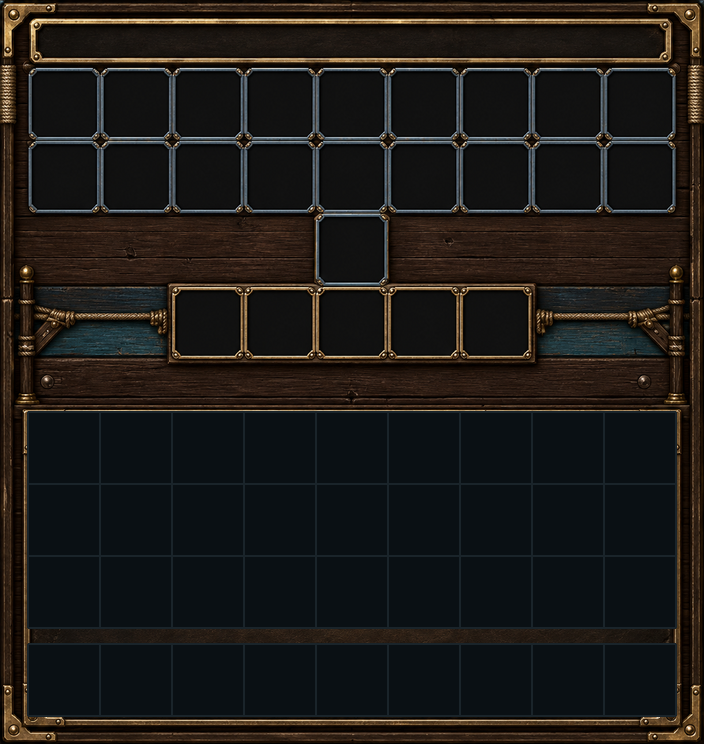
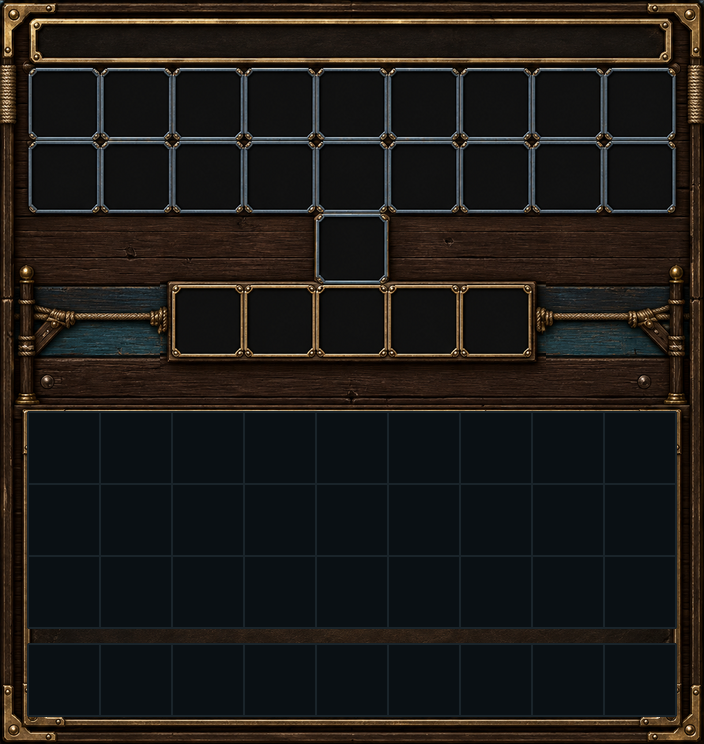
NPC 대화 창 선택지 판 2px 올림
액자 구멍이 63px 인데 아이콘이 64px 라 여유가 없다. 2px(=0.5 GUI px) 낮은 것만으로도
아이콘 위가 테두리에 걸치고 아래에 틈이 생긴다 — 유저가 확대해서 잡아냈다.

겹쳐보기 그림으로는 안 보였다. 자동 계측을 두 번 시도했지만(구멍 밝기 / 액자 밝기)
입체 그림자와 배경 장식에 다 속아서 못 믿을 숫자가 나왔다. 결국 문제 칸의 밝기
프로파일을 직접 읽어 재는 게 정확했다 — 자동화는 접었다.

기록 칸(±0.5px)·가로(±1px)는 원래 맞아 있었다. 옮긴 건 선택지 놋쇠 판 하나뿐.

Changed region(s): [[0.2188, 0.371, 0.7812, 0.4946]]

diff --git a/gui-forge/prep_delivery.py b/gui-forge/prep_delivery.py
@@ -52,6 +52,12 @@ PLATES = {
 # 책등 열에 액자를 찍을 화면: (떠올 칸 col·row, 찍을 col, 찍을 row 목록)
 SPINE_FILL = {"dexfish": ((3, 2), 4, [0, 1, 2, 3, 4])}
 
+# 한 덩어리만 살짝 옮길 때: 이름 → [(상자, dx, dy)]
+# ★2px(=0.5 GUI px) 라도 아이콘이 액자 구멍을 꽉 채우면 눈에 띈다. 구멍이 63px 인데
+#   아이콘이 64px 이라 여유가 없어서, 2px 밀리면 위는 테두리에 걸치고 아래에 틈이 생긴다.
+#   (2026-08-10 유저가 확대해서 잡아냄 — 겹쳐보기 그림으로는 안 보였다.)
+SHIFTS = {"npcdialog": [((160, 272, 546, 368), 0, -2)]}   # 선택지 놋쇠 판이 2px 낮았다
+
 
 def remap(im, xb, yb):
     """구간별로 잘라 다시 붙인다. 구간이 없으면 그대로."""
@@ -81,6 +87,16 @@ def main():
             im = im.resize(size, Image.LANCZOS)      # 비율이 맞으면 통짜 리사이즈로 끝난다
         im = remap(im, xb, yb)
 
+        for box, dx, dy in SHIFTS.get(name, []):
+            x0, y0, x1, y1 = box
+            piece = im.crop(box)
+            # 비는 자리는 옮긴 반대쪽 바로 옆에서 같은 두께로 떠다 메운다(뒤가 가로로 연속된 판).
+            if dy:
+                sy = y1 if dy < 0 else y0 + dy
+                im.paste(im.crop((x0, sy, x1, sy + abs(dy))),
+                         (x0, y1 + dy if dy < 0 else y0))
+            im.paste(piece, (x0 + dx, y0 + dy))
+
         fill = SPINE_FILL.get(name)
         if fill:
             (sc, sr), dst_col, rows = fill
@@ -94,7 +110,8 @@ def main():
         im.convert("RGB").save(os.path.join(out, "bg_source.png"))
         print(f"  {name:10} {size[0]}x{size[1]}"
               + (f" · 구간보정 {len(xb)}x{len(yb)}" if xb or yb else " · 원본 그대로")
-              + (f" · 책등 액자 {len(fill[2])}개" if fill else ""))
+              + (f" · 책등 액자 {len(fill[2])}개" if fill else "")
+              + (f" · 부분이동 {len(SHIFTS[name])}건" if name in SHIFTS else ""))
 
 
 if __name__ == "__main__":
